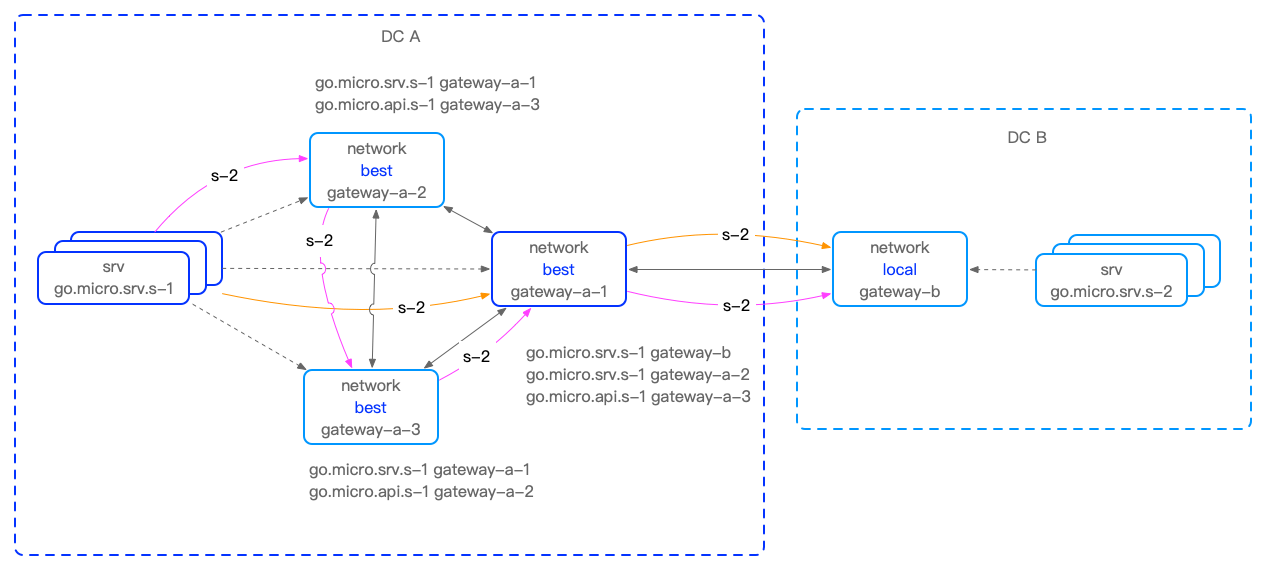
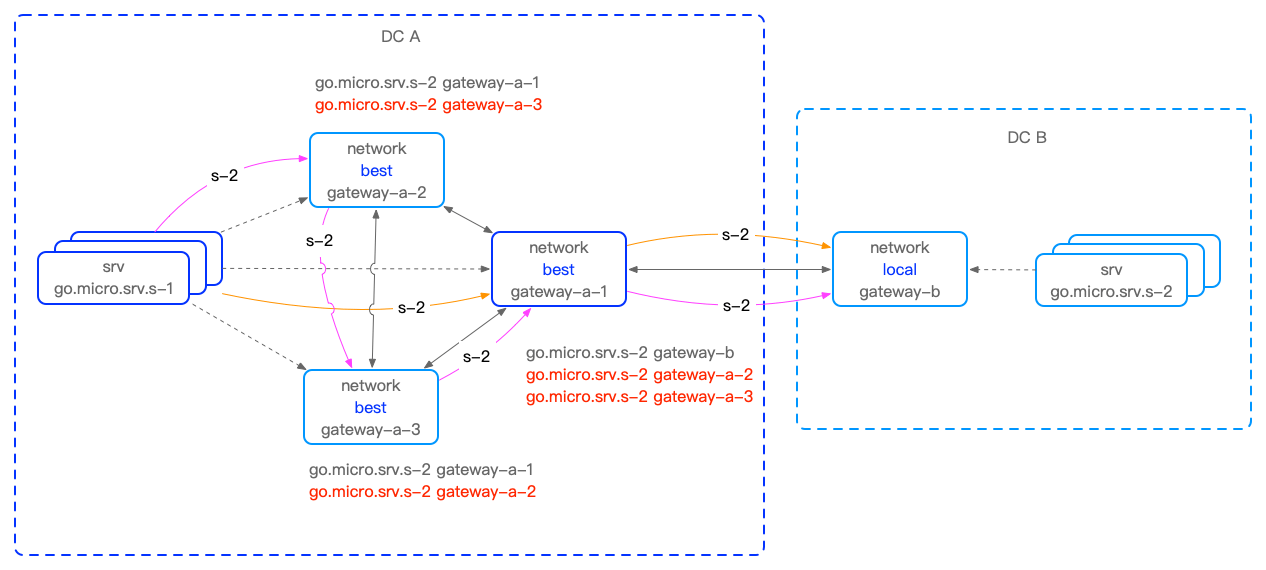
modify go-micro Network初探

Changed region(s): [[0.4005, 0.5965, 0.6161, 0.7158], [0.2464, 0.8053, 0.4313, 0.8947], [0.2464, 0.1193, 0.4313, 0.2088]]

diff --git a/public/post/microservice/2019-11-15-go-micro-network/index.html b/public/post/microservice/2019-11-15-go-micro-network/index.html
@@ -32,7 +32,7 @@
 <meta name="generator" content="Hugo 0.53" />
 
 
-<link rel="canonical" href="http://hbchen.com/post/microservice/2019-11-14-go-micro-network/" />
+<link rel="canonical" href="http://hbchen.com/post/microservice/2019-11-15-go-micro-network/" />
 
 <link rel="apple-touch-icon" sizes="180x180" href="/apple-touch-icon.png">
 <link rel="icon" type="image/png" sizes="32x32" href="/favicon-32x32.png">
@@ -54,17 +54,17 @@
 <meta property="og:description" content="Network是micro社区正在主力打造的解决多&rdquo;云&rdquo;环境的解决方案，下面结合最近的研究做个总结，主要包括network适用的几种场景分析，
 以及在这些场景需求下network还有哪些不足。" />
 <meta property="og:type" content="article" />
-<meta property="og:url" content="http://hbchen.com/post/microservice/2019-11-14-go-micro-network/" /><meta property="article:published_time" content="2019-11-14T10:41:17&#43;08:00"/>
-<meta property="article:modified_time" content="2019-11-14T10:41:17&#43;08:00"/>
+<meta property="og:url" content="http://hbchen.com/post/microservice/2019-11-15-go-micro-network/" /><meta property="article:published_time" content="2019-11-15T00:00:00&#43;00:00"/>
+<meta property="article:modified_time" content="2019-11-16T07:03:09&#43;00:00"/>
 
 <meta itemprop="name" content="【go-micro】Network初探">
 <meta itemprop="description" content="Network是micro社区正在主力打造的解决多&rdquo;云&rdquo;环境的解决方案，下面结合最近的研究做个总结，主要包括network适用的几种场景分析，
 以及在这些场景需求下network还有哪些不足。">
 
 
-<meta itemprop="datePublished" content="2019-11-14T10:41:17&#43;08:00" />
-<meta itemprop="dateModified" content="2019-11-14T10:41:17&#43;08:00" />
-<meta itemprop="wordCount" content="1515">
+<meta itemprop="datePublished" content="2019-11-15T00:00:00&#43;00:00" />
+<meta itemprop="dateModified" content="2019-11-16T07:03:09&#43;00:00" />
+<meta itemprop="wordCount" content="1636">
 
 
 
@@ -146,13 +146,13 @@
       <h1 class="post-title">【go-micro】Network初探</h1>
 
       <div class="post-meta">
-        <span class="post-time"> 2019-11-14 </span>
+        <span class="post-time"> 2019-11-15 </span>
         <div class="post-category">
             
               <a href="/categories/%E5%BE%AE%E6%9C%8D%E5%8A%A1/"> 微服务 </a>
             
           </div>
-        <span class="more-meta"> 约 1515 字 </span>
+        <span class="more-meta"> 约 1636 字 </span>
         <span class="more-meta"> 预计阅读 4 分钟 </span>
       </div>
     </header>
@@ -229,6 +229,13 @@
 <blockquote>
 <p>截止<code>v1.6.0</code>版本还没有此功能，需要使用<code>master</code>分支，<a href="https://github.com/micro/go-micro/pull/932">PR#932</a>增加了此策略的支持，
 以micro的发版速度应该要不了多久就会有Release版🤣</p>
+
+<p>Network在不断完善，本文参考版本为：</p>
+
+<ul>
+<li><a href="https://github.com/micro/micro/tree/98d9b1f332a2">micro/tree/98d9b1f332a2</a></li>
+<li><a href="https://github.com/micro/go-micro/tree/9f481542f38d">go-micro/tree/9f481542f38d</a></li>
+</ul>
 </blockquote>
 
 <h2 id="应用场景">应用场景</h2>
@@ -262,7 +269,9 @@
 如果集群内出现n个副本，那么最差的情况下可能要在<code>network</code>的<code>pod</code>间跳转n次。理想状态应该是对于集群内仅共享与<code>node</code>直连的<strong>集群外服务</strong>（这是当前<code>network</code>不具备），
 而对集群外共享本集群服务，这样可以确保集群内<code>network</code>代理最多经过<strong>两跳</strong>即可调用集群外服务。
 <img src="/img/micro/network_problem_ha.png" alt="network_edge" />
-总的来说是<code>advertise_strategy</code>需要更完善的策略支持，做必要的隔离、筛选，一是服务的可见性问题，二是服务规模增加后<code>network</code>间的数据通信也会成为瓶颈。</p>
+图中红色标记的<code>go.micro.srv.s-2 gateway-a-2</code>、<code>go.micro.srv.s-2 gateway-a-3</code>不应该出现在<code>network</code>的<code>routes</code>中，避免同一集群内没必要的路由。</p>
+
+<p>总的来说是<code>advertise_strategy</code>需要更完善的策略支持，做必要的隔离、筛选，一是服务的可见性问题，二是服务规模增加后<code>network</code>间的数据通信也会成为瓶颈。</p>
 
 <h3 id="路由负载策略">路由负载策略</h3>
 
@@ -286,7 +295,7 @@
   </p>
   <p class="copyright-item">
     <span class="item-title">上次更新</span>
-    <span class="item-content">2019-11-14</span>
+    <span class="item-content">2019-11-16</span>
   </p>
   
   <p class="copyright-item">

diff --git a/public/index.html b/public/index.html
@@ -136,15 +136,15 @@
     
       <article class="post bg-white">
   <header class="post-header">
-    <h1 class="post-title"><a class="post-link" href="/post/microservice/2019-11-14-go-micro-network/">【go-micro】Network初探</a></h1>
+    <h1 class="post-title"><a class="post-link" href="/post/microservice/2019-11-15-go-micro-network/">【go-micro】Network初探</a></h1>
     <div class="post-meta">
-      <span class="post-time"> 2019-11-14 </span>
+      <span class="post-time"> 2019-11-15 </span>
       <div class="post-category">
           
             <a href="/categories/%E5%BE%AE%E6%9C%8D%E5%8A%A1/"> 微服务 </a>
           
         </div>
-      <span class="more-meta"> 约 1515 字 </span>
+      <span class="more-meta"> 约 1636 字 </span>
       <span class="more-meta"> 预计阅读 4 分钟 </span>
     </div>
   </header>
@@ -156,7 +156,7 @@
 以及在这些场景需求下<code>network</code>还有哪些不足。</p>
     </div>
     <div class="read-more">
-      <a href="/post/microservice/2019-11-14-go-micro-network/" class="read-more-link">阅读全文</a>
+      <a href="/post/microservice/2019-11-15-go-micro-network/" class="read-more-link">阅读全文</a>
     </div>
     
   </div>

diff --git a/public/categories/微服务/index.html b/public/categories/微服务/index.html
@@ -54,7 +54,7 @@
 <meta property="og:description" content="Hobo&#39;s Blog." />
 <meta property="og:type" content="website" />
 <meta property="og:url" content="http://hbchen.com/categories/%E5%BE%AE%E6%9C%8D%E5%8A%A1/" />
-<meta property="og:updated_time" content="2019-11-14T10:41:17&#43;08:00"/>
+<meta property="og:updated_time" content="2019-11-15T00:00:00&#43;00:00"/>
 
 <meta itemprop="name" content="微服务">
 <meta itemprop="description" content="Hobo&#39;s Blog.">
@@ -143,10 +143,10 @@
   
     <div class="archive-post">
       <span class="archive-post-time">
-        2019-11-14
+        2019-11-15
       </span>
       <span class="archive-post-title">
-        <a href="/post/microservice/2019-11-14-go-micro-network/" class="archive-post-link">
+        <a href="/post/microservice/2019-11-15-go-micro-network/" class="archive-post-link">
           【go-micro】Network初探
         </a>
       </span>

diff --git a/public/tags/微服务/index.html b/public/tags/微服务/index.html
@@ -54,7 +54,7 @@
 <meta property="og:description" content="Hobo&#39;s Blog." />
 <meta property="og:type" content="website" />
 <meta property="og:url" content="http://hbchen.com/tags/%E5%BE%AE%E6%9C%8D%E5%8A%A1/" />
-<meta property="og:updated_time" content="2019-11-14T10:41:17&#43;08:00"/>
+<meta property="og:updated_time" content="2019-11-15T00:00:00&#43;00:00"/>
 
 <meta itemprop="name" content="微服务">
 <meta itemprop="description" content="Hobo&#39;s Blog.">
@@ -143,10 +143,10 @@
   
     <div class="archive-post">
       <span class="archive-post-time">
-        2019-11-14
+        2019-11-15
       </span>
       <span class="archive-post-title">
-        <a href="/post/microservice/2019-11-14-go-micro-network/" class="archive-post-link">
+        <a href="/post/microservice/2019-11-15-go-micro-network/" class="archive-post-link">
           【go-micro】Network初探
         </a>
       </span>

diff --git a/public/tags/go-micro/index.html b/public/tags/go-micro/index.html
@@ -54,7 +54,7 @@
 <meta property="og:description" content="Hobo&#39;s Blog." />
 <meta property="og:type" content="website" />
 <meta property="og:url" content="http://hbchen.com/tags/go-micro/" />
-<meta property="og:updated_time" content="2019-11-14T10:41:17&#43;08:00"/>
+<meta property="og:updated_time" content="2019-11-15T00:00:00&#43;00:00"/>
 
 <meta itemprop="name" content="Go Micro">
 <meta itemprop="description" content="Hobo&#39;s Blog.">
@@ -143,10 +143,10 @@
   
     <div class="archive-post">
       <span class="archive-post-time">
-        2019-11-14
+        2019-11-15
       </span>
       <span class="archive-post-title">
-        <a href="/post/microservice/2019-11-14-go-micro-network/" class="archive-post-link">
+        <a href="/post/microservice/2019-11-15-go-micro-network/" class="archive-post-link">
           【go-micro】Network初探
         </a>
       </span>

diff --git a/public/post/index.html b/public/post/index.html
@@ -54,7 +54,7 @@
 <meta property="og:description" content="Hobo&#39;s Blog." />
 <meta property="og:type" content="website" />
 <meta property="og:url" content="http://hbchen.com/post/" />
-<meta property="og:updated_time" content="2019-11-14T10:41:17&#43;08:00"/>
+<meta property="og:updated_time" content="2019-11-15T00:00:00&#43;00:00"/>
 
 <meta itemprop="name" content="Posts">
 <meta itemprop="description" content="Hobo&#39;s Blog.">
@@ -143,10 +143,10 @@
 
     <div class="archive-post">
       <span class="archive-post-time">
-        11-14
+        11-15
       </span>
       <span class="archive-post-title">
-        <a href="/post/microservice/2019-11-14-go-micro-network/" class="archive-post-link">
+        <a href="/post/microservice/2019-11-15-go-micro-network/" class="archive-post-link">
           【go-micro】Network初探
         </a>
       </span>

diff --git a/public/categories/index.html b/public/categories/index.html
@@ -201,10 +201,10 @@
             </h2>
           </div><div class="archive-post">
               <span class="archive-post-time">
-                2019-11-14
+                2019-11-15
               </span>
               <span class="archive-post-title">
-                <a href="/post/microservice/2019-11-14-go-micro-network/" class="archive-post-link">
+                <a href="/post/microservice/2019-11-15-go-micro-network/" class="archive-post-link">
                   【go-micro】Network初探
                 </a>
               </span>

diff --git a/public/post/microservice/2019-10-13-go-micro-quick-start/index.html b/public/post/microservice/2019-10-13-go-micro-quick-start/index.html
@@ -366,7 +366,7 @@ func (ww *wrapWriter) WriteHeader(statusCode int) {
       
       <nav class="post-nav">
         
-          <a class="prev" href="/post/microservice/2019-11-14-go-micro-network/">
+          <a class="prev" href="/post/microservice/2019-11-15-go-micro-network/">
             <i class="iconfont icon-left"></i>
             <span class="prev-text nav-default">【go-micro】Network初探</span>
             <span class="prev-text nav-mobile">上一篇</span>

diff --git a/content/post/microservice/2019-11-15-go-micro-network.md b/content/post/microservice/2019-11-15-go-micro-network.md
@@ -1,6 +1,7 @@
 ---
 title: "【go-micro】Network初探"
-date: 2019-11-14T10:41:17+08:00
+date: 2019-11-15
+lastmod: 2019-11-16 07:03:09
 draft: false
 mermaid: false
 comments: true
@@ -37,6 +38,11 @@ Network是micro社区正在主力打造的解决多"云"环境的解决方案，
 	
 > 截止`v1.6.0`版本还没有此功能，需要使用`master`分支，[PR#932](https://github.com/micro/go-micro/pull/932)增加了此策略的支持，
 以micro的发版速度应该要不了多久就会有Release版🤣
+
+> Network在不断完善，本文参考版本为：
+>
+ - [micro/tree/98d9b1f332a2](https://github.com/micro/micro/tree/98d9b1f332a2)
+ - [go-micro/tree/9f481542f38d](https://github.com/micro/go-micro/tree/9f481542f38d)
 	
 ## 应用场景
 ### 多集群
@@ -62,6 +68,8 @@ Network是micro社区正在主力打造的解决多"云"环境的解决方案，
 如果集群内出现n个副本，那么最差的情况下可能要在`network`的`pod`间跳转n次。理想状态应该是对于集群内仅共享与`node`直连的**集群外服务**（这是当前`network`不具备），
 而对集群外共享本集群服务，这样可以确保集群内`network`代理最多经过**两跳**即可调用集群外服务。
 ![network_edge](/img/micro/network_problem_ha.png)
+图中红色标记的`go.micro.srv.s-2 gateway-a-2`、`go.micro.srv.s-2 gateway-a-3`不应该出现在`network`的`routes`中，避免同一集群内没必要的路由。
+
 总的来说是`advertise_strategy`需要更完善的策略支持，做必要的隔离、筛选，一是服务的可见性问题，二是服务规模增加后`network`间的数据通信也会成为瓶颈。
 
 ### 路由负载策略
